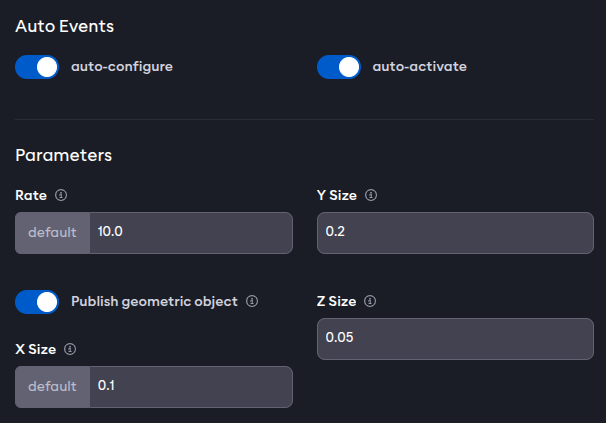
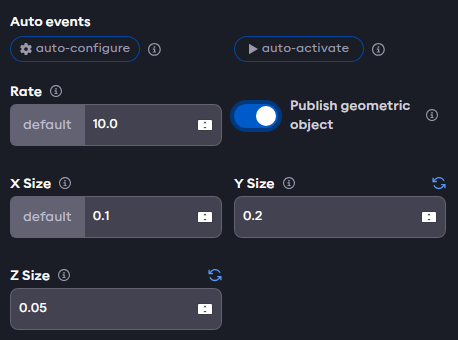
New v5 version of the collider, fixed typos in v4

diff --git a/docs/core/examples/core-components/colliders.md b/docs/core/examples/core-components/colliders.md
@@ -82,9 +82,9 @@ update when the target pose enters and exits the box.
   <summary>Application YAML</summary>
 
     ```yaml
-    schema: 2-0-4
+    schema: 2-0-6
     dependencies:
-      core: v4.4.1
+      core: v5.0.0
     on_start:
       load:
         - component: box_collider
@@ -185,8 +185,8 @@ update when the target pose enters and exits the box.
 
 ## Plane Collider example
 
-Switching from the Box Colldier to the Cyclinder or Sphere Collider components is straightforward. However, it is worth
-looking at the Plane Collder separately because it is not immediately obvious on which side of the plane the target _is_
+Switching from the Box Collider to the Cylinder or Sphere Collider components is straightforward. However, it is worth
+looking at the Plane Collider separately because it is not immediately obvious on which side of the plane the target _is_
 _in collision_ with the plane and on which side it _is not in collision_.
 
 As per the component description, a target pose is considered _in collision_ if it has a negative z coordinate with
@@ -213,9 +213,9 @@ and the application is stopped immediately.
   <summary>Application YAML</summary>
 
     ```yaml
-      schema: 2-0-4
+      schema: 2-0-6
       dependencies:
-        core: v4.4.1
+        core: v5.0.0
       on_start:
         load:
           - component: interactive_marker

diff --git a/docs/core_versioned_docs/version-v4/examples/core-components/colliders.md b/docs/core_versioned_docs/version-v4/examples/core-components/colliders.md
@@ -185,8 +185,8 @@ update when the target pose enters and exits the box.
 
 ## Plane Collider example
 
-Switching from the Box Colldier to the Cyclinder or Sphere Collider components is straightforward. However, it is worth
-looking at the Plane Collder separately because it is not immediately obvious on which side of the plane the target _is_
+Switching from the Box Collider to the Cylinder or Sphere Collider components is straightforward. However, it is worth
+looking at the Plane Collider separately because it is not immediately obvious on which side of the plane the target _is_
 _in collision_ with the plane and on which side it _is not in collision_.
 
 As per the component description, a target pose is considered _in collision_ if it has a negative z coordinate with
